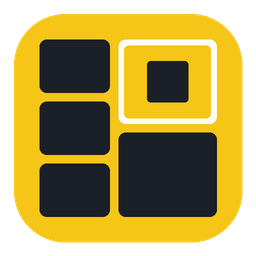
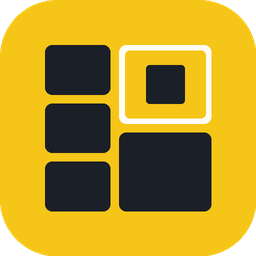
Ikona bez przezroczystego marginesu (wymog walidacji home-assistant/brands)

Changed region(s): [[0.125, 0.125, 0.875, 0.875], [0.0, 0.0, 1.0, 1.0]]

diff --git a/brands/make_icon.py b/brands/make_icon.py
@@ -30,11 +30,12 @@ def build() -> Image.Image:
     img = Image.new("RGBA", (SIZE, SIZE), (0, 0, 0, 0))
     draw = ImageDraw.Draw(img)
 
-    m = SIZE * 0.055
-    _rr(draw, (m, m, SIZE - m, SIZE - m), SIZE * 0.20, AMBER)
+    # Bez przezroczystego marginesu: walidacja home-assistant/brands wymaga
+    # obrazka przycietego do tresci. Zaokraglone rogi to jedyna przezroczystosc.
+    _rr(draw, (0, 0, SIZE, SIZE), SIZE * 0.22, AMBER)
 
     # Siatka skrytek: lewa kolumna wezsza (3 male), prawa szersza (2 duze).
-    pad = SIZE * 0.155
+    pad = SIZE * 0.175
     gap = SIZE * 0.035
     left, top, right, bottom = pad, pad, SIZE - pad, SIZE - pad
     split = left + (right - left) * 0.42
